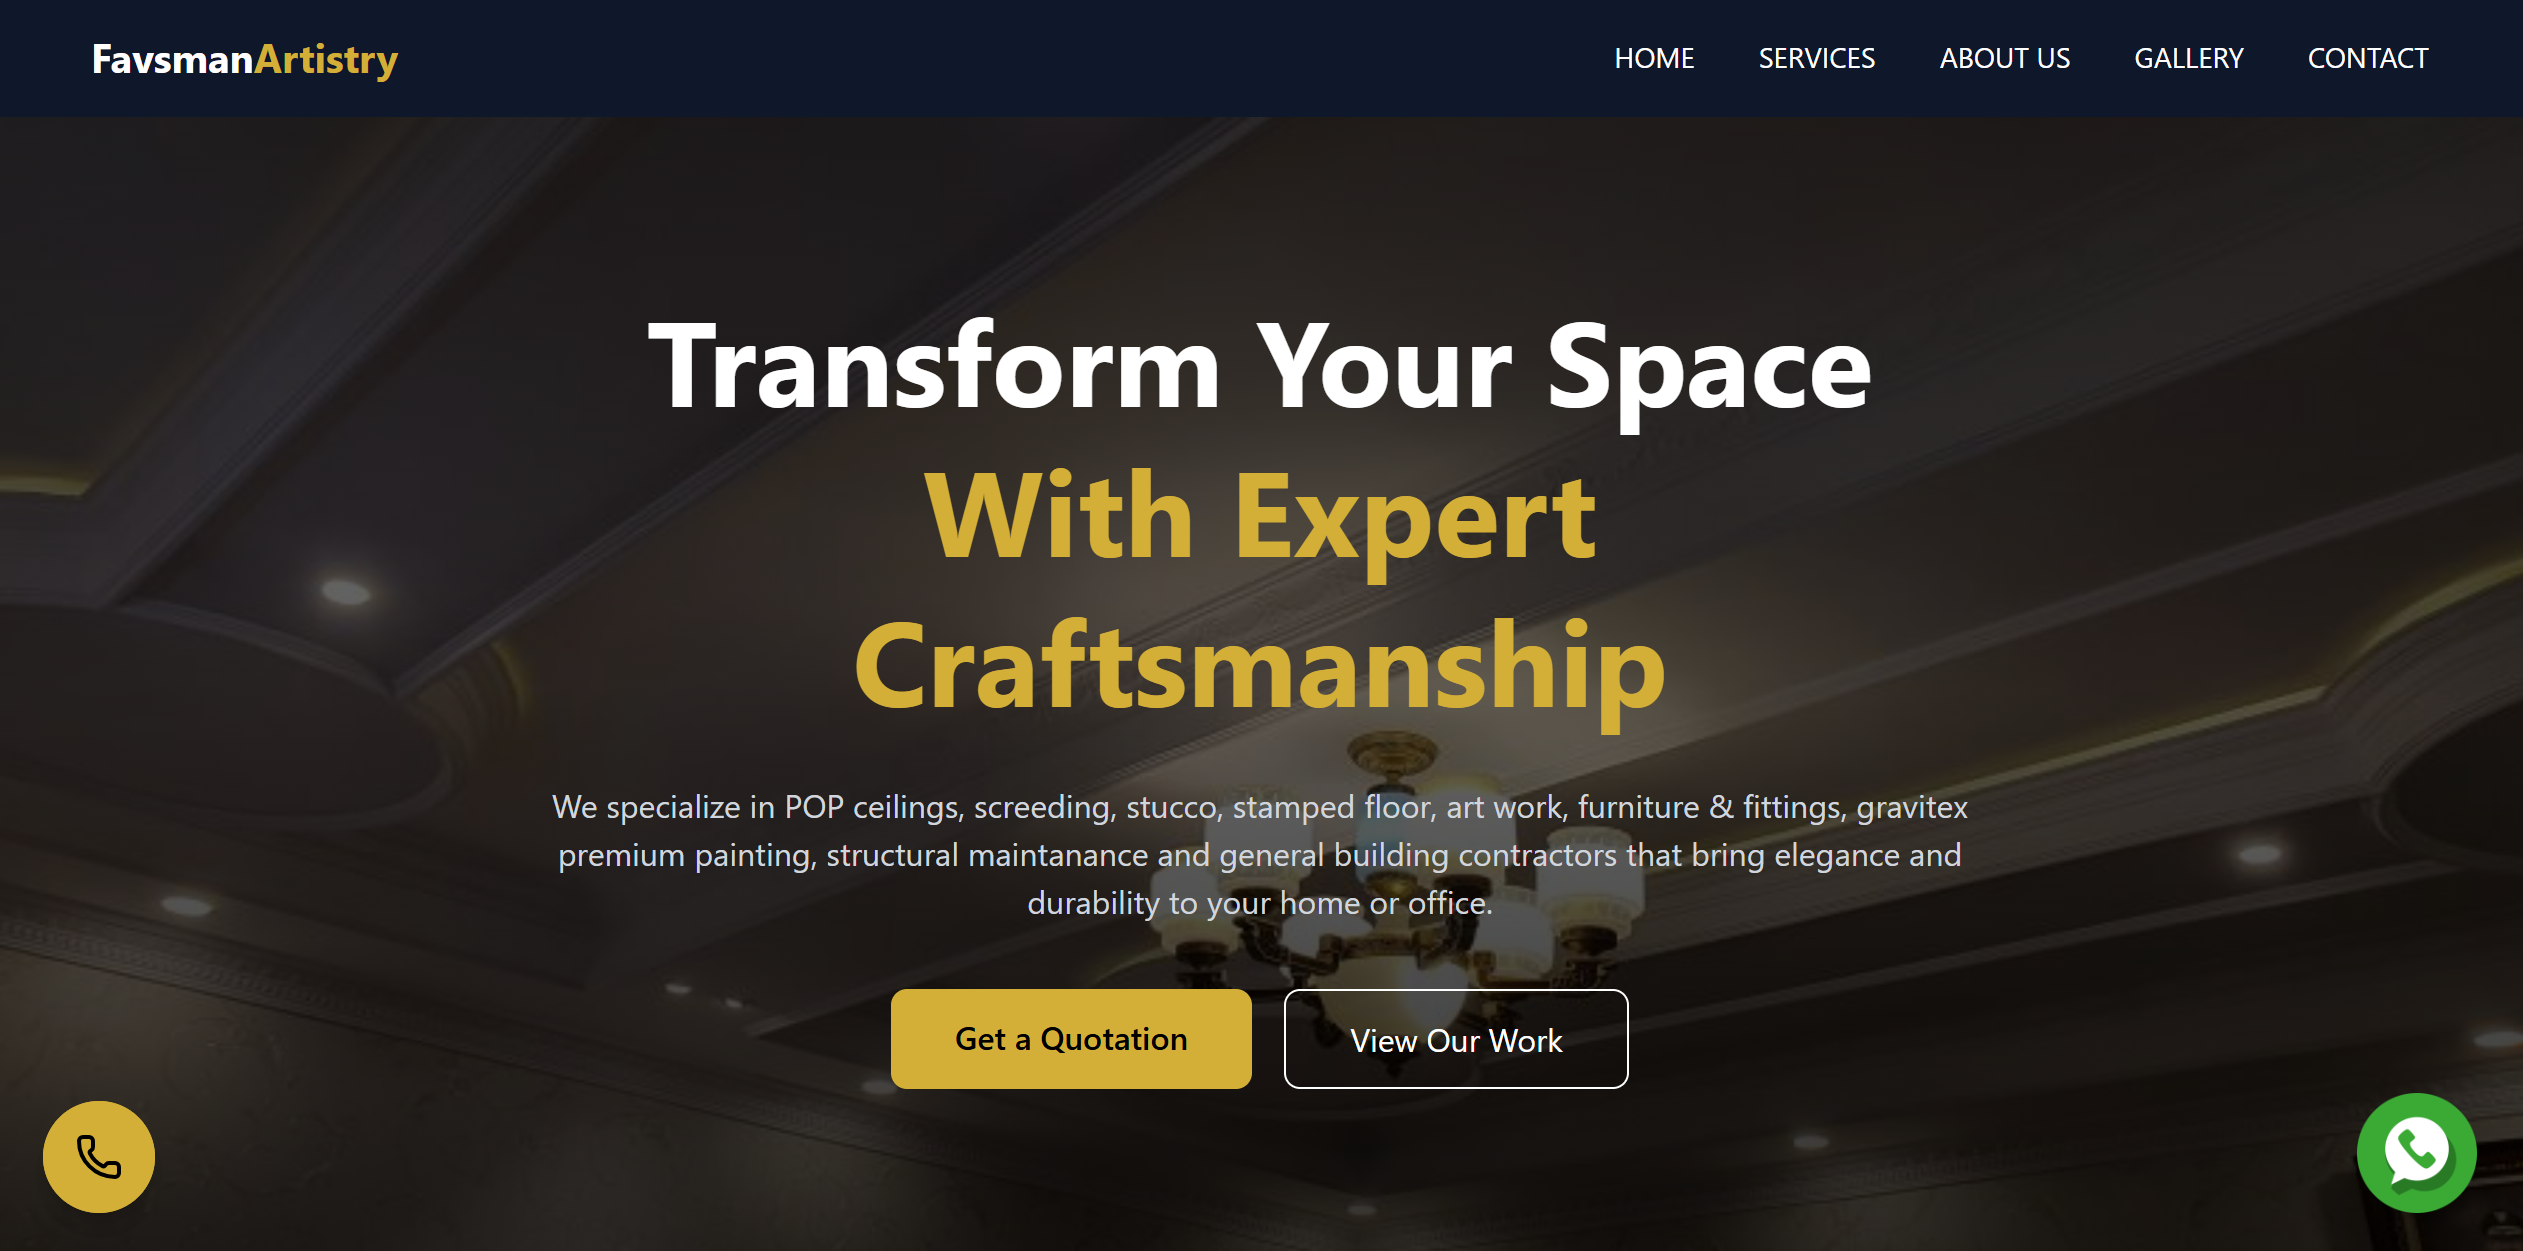
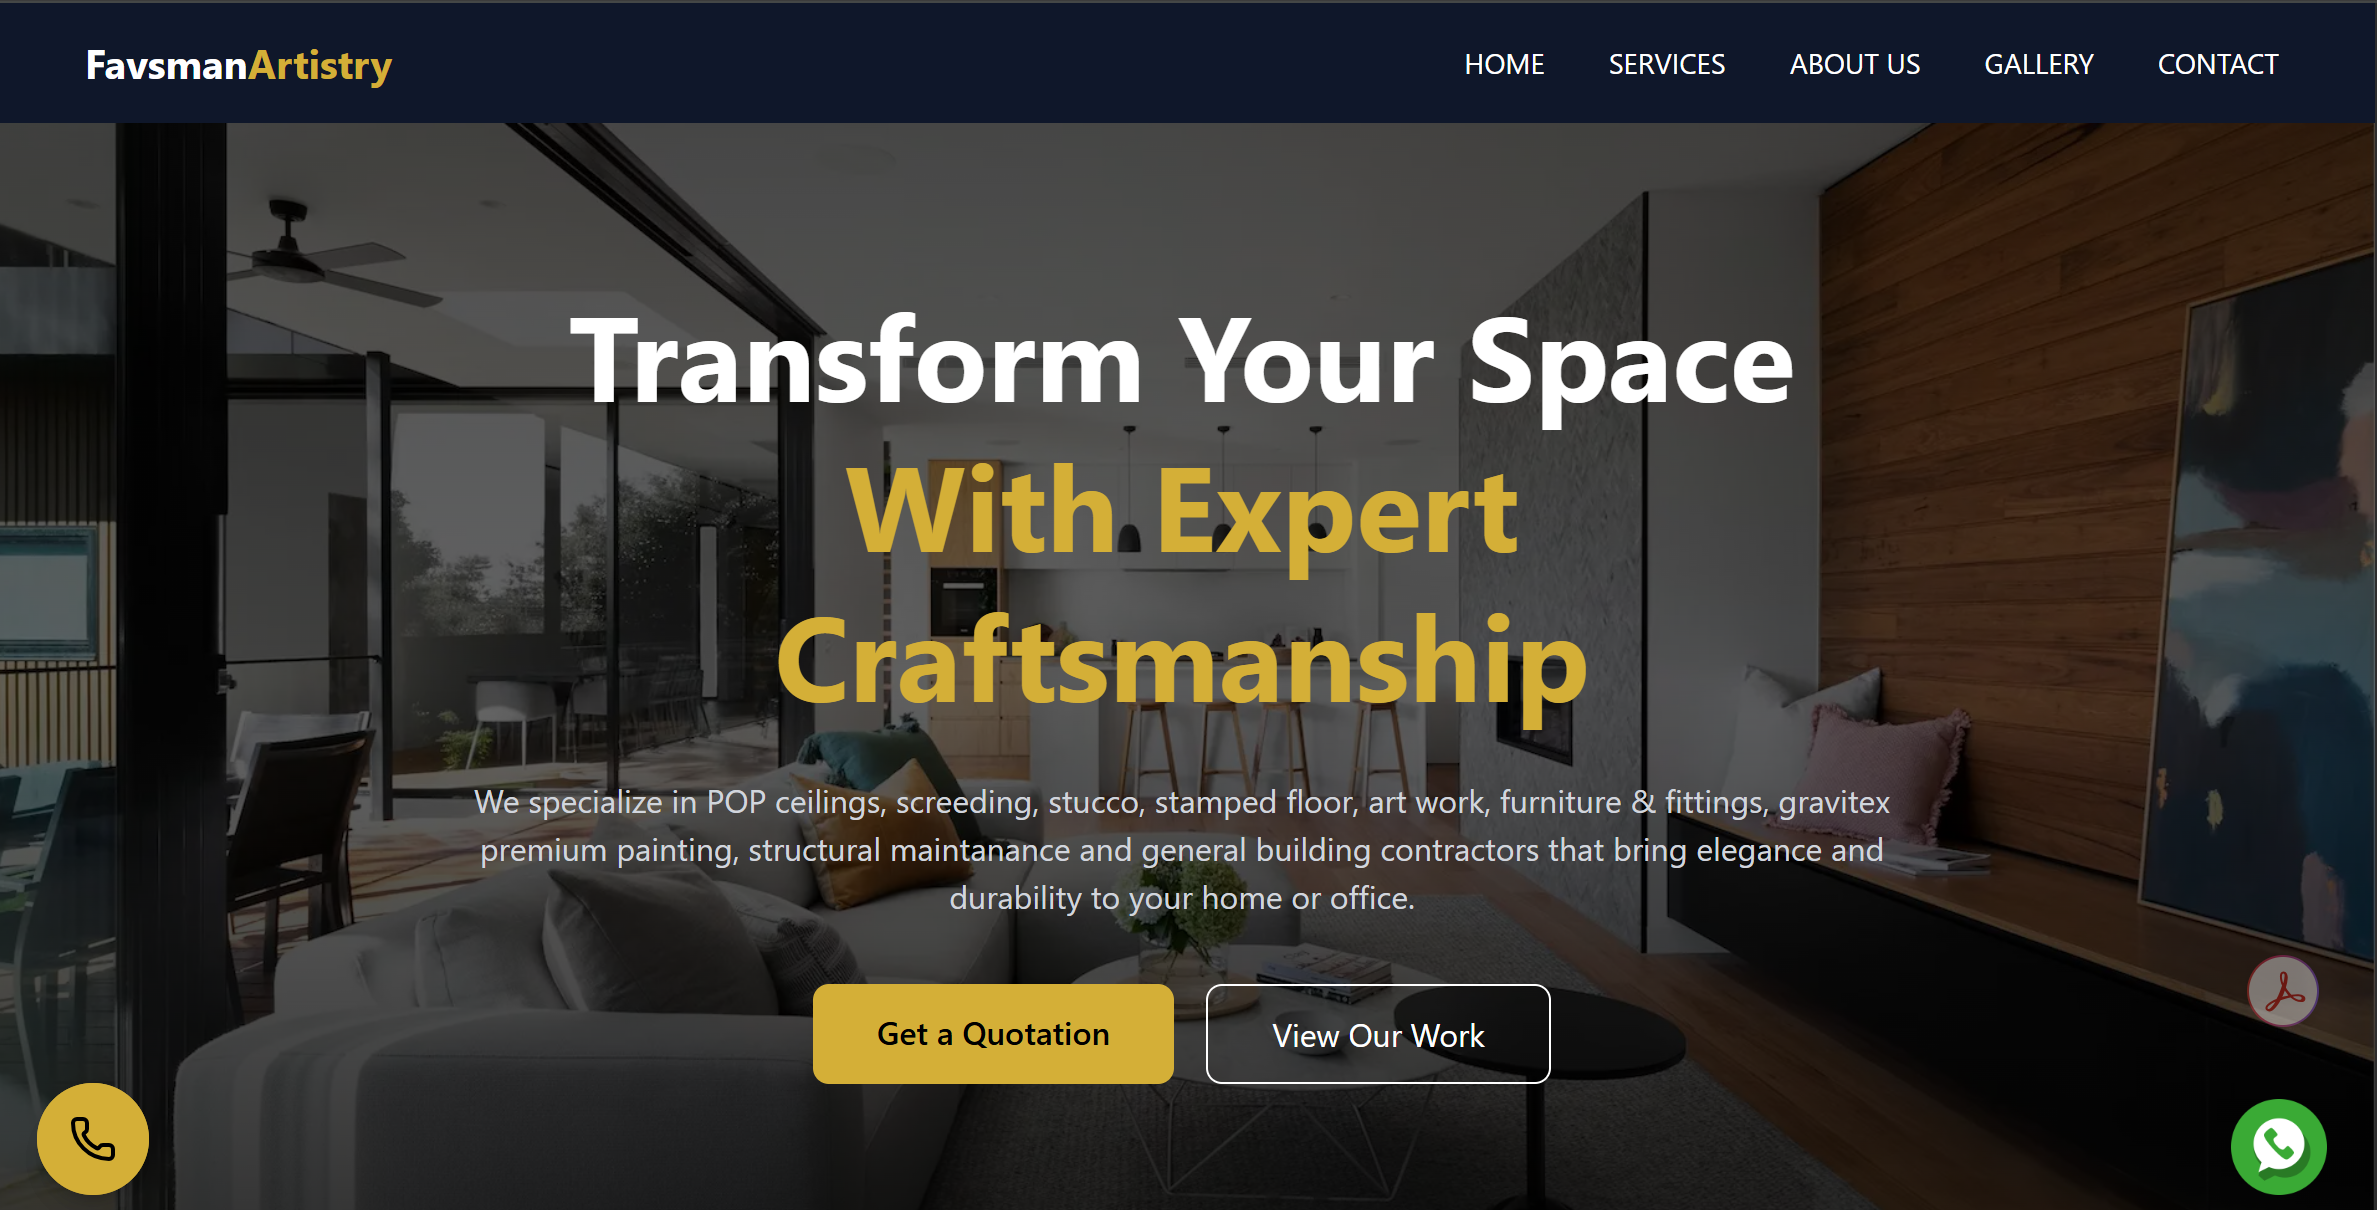
restructured project section and other minor changes

diff --git a/index.html b/index.html
@@ -17,10 +17,11 @@
     <link rel="stylesheet" href="css/portfolio2.css" />
     <link rel="stylesheet" href="css/Mediaquerry.css" />
   </head>
-  <!-- custom cursor -->
+  
+  <body>
+    <!-- custom cursor -->
   <div class="cursor-dot"></div>
   <div class="cursor-outline"></div>
-  <body>
     <!-- pre loading animation -->
     <div id="preloader">
       <div class="loader"></div>
@@ -135,7 +136,7 @@
                       <span class="percent">0%</span>
                     </div>
                     <div class="progress-bar">
-                      <div class="progress" data-width="80"></div>
+                      <div class="progress" data-width="70"></div>
                     </div>
                   </div>
 
@@ -145,38 +146,20 @@
                       <span class="percent">0%</span>
                     </div>
                     <div class="progress-bar">
-                      <div class="progress" data-width="90"></div>
+                      <div class="progress" data-width="95"></div>
                     </div>
                   </div>
 
-                  <div class="project">
-                    <div class="top">
-                      <span class="titlez">Favsman Artistry Website</span>
-                      <span class="percent">0%</span>
-                    </div>
-                    <div class="progress-bar">
-                      <div class="progress" data-width="85"></div>
-                    </div>
-                  </div>
                   <div class="project">
                     <div class="top">
                       <span class="titlez">Ramto Global</span>
                       <span class="percent">0%</span>
                     </div>
                     <div class="progress-bar">
-                      <div class="progress" data-width="65"></div>
+                      <div class="progress" data-width="85"></div>
                     </div>
                   </div>
 
-                  <!-- <div class="project">
-                    <div class="top">
-                      <span class="titlez">Deployment</span>
-                      <span class="percent">0%</span>
-                    </div>
-                    <div class="progress-bar">
-                      <div class="progress" data-width="70"></div>
-                    </div>
-                  </div> -->
                 </div>
               </div>
             </div>
@@ -425,64 +408,57 @@
         <div id="project_divs_holder">
 
         <!-- FIRST 2 -->
-         <div class="project_divs" data-aos="fade-up" data-aos-delay="200">
-        <a href="https://favsman-artistry-and-interiors-ltd.netlify.app/" target="_blank" class="explore">
-          <h5 class="project_header">Click Here To Explore Favsman artistry website</h5>
-        </a>
-        <img src="img/favsman.png" class="project_images" alt="" />
-        <p class="projectDescription">A responsive website for a construction finishing firm based in Lagos</p>
-         </div>
+         <div class="project_divs project-card" data-aos="fade-up" data-aos-delay="200">
+          <img src="img/favsman.png" class="project_images" alt="" />
 
-       <div class="project_divs" data-aos="fade-up" data-aos-delay="300">
-        <a href="https://cherriegiveresultz.com/" target="_blank" class="explore">
-          <h5 class="project_header">Click Here To Explore Cherie Give Resultz Website</h5>
-        </a>
-        <img src="img/cherie give2.png" class="project_images" alt="" />
-       </div>
+        <div class="overlay">
+          <a href="https://favsman-artistry-and-interiors-ltd.netlify.app/" target="_blank" class="explore">View Live</a>
+        </div>
+        <h5 class="project-title">Favsman artistry</h5>
+         </div>
+                  <!-- cherie -->
+         <div class="project_divs project-card" data-aos="fade-up" data-aos-delay="300">
+          <img src="img/cherie give2.png" class="project_images" alt="" />
+
+        <div class="overlay">
+           <a href="https://cherriegiveresultz.com/" target="_blank" class="explore">View Live</a>
+        </div>
+        <h5 class="project-title">Cherie Give Resultz</h5>
+         </div>
 
        <!-- HIDDEN -->
-        <div class="project_divs extra_project">
-          <a href="https://cravehub-eatery.netlify.app/" target="_blank" class="explore">
-            <h5 class="project_header">Click Here To Explore Crave Hub website</h5>
-          </a>
-          <img src="img/restaurant.png" class="project_images" />
-        </div>
 
-        <div class="project_divs extra_project">
-          <a href="https://storytimex.netlify.app/" target="_blank" class="explore">
-            <h5 class="project_header">Click Here To Explore Blog Site</h5>
-          </a>
-          <img src="img/blogSite.png" class="project_images" />
-        </div>
+        <!-- ramto -->
+         <div class="project_divs project-card" data-aos="fade-up" data-aos-delay="300">
+          <img src="img/ramto.png" class="project_images" alt="" />
 
-        <div class="project_divs extra_project">
-          <a href="https://mr-chuks-kitchen.netlify.app/" target="_blank" class="explore">
-          <h5 class="project_header">Click Here To Explore Mr Chuks Kitchen</h5>
-          </a>
-         <img src="img/chuks.png" class="project_images" />
+        <div class="overlay">
+           <a href="https://ramto-global.netlify.app/" target="_blank" class="explore">View Live</a>
+        </div>
+        <h5 class="project-title">Ramto Global</h5>
          </div>
 
-          <div class="project_divs extra_project">
-            <h5 class="project_header">Landing Page for Homie Furniture</h5>
-            <img src="img/furnit.png" class="project_images" />
-          </div>
 
-          <div class="project_divs extra_project">
-            <h5 class="project_header">Responsive website for Amachiks farms</h5>
-            <img src="img/amachiks2.png" class="project_images" />
-          </div>
+                       <!-- mr chuks -->
+         <div class="project_divs project-card" data-aos="fade-up" data-aos-delay="300">
+          <img src="img/chuks.png" class="project_images" alt="" />
 
-        <div class="project_divs extra_project">
-          <h5 class="project_header">Profile card done with React</h5>
-          <img src="img/img 3.png" class="project_images" />
+        <div class="overlay">
+           <a href="https://mr-chuks-kitchen.netlify.app/" target="_blank" class="explore">View Live</a>
         </div>
+        <h5 class="project-title">Mr. Chuks Kitchen</h5>
+         </div>
 
-          <div class="view-toggle">
-            <button id="toggleProjects" type="button">
-              <span class="btn-text">View More</span>
-              <span class="toggle-arrow">▾</span>
-            </button>
-          </div>
+
+ <!-- Story timex -->
+         <div class="project_divs project-card" data-aos="fade-up" data-aos-delay="300">
+          <img src="img/blogSite.png" class="project_images" alt="" />
+
+        <div class="overlay">
+           <a href="https://storytimex.netlify.app/" target="_blank" class="explore">View Live</a>
+        </div>
+        <h5 class="project-title">Story Timex</h5>
+         </div>
 
       </div> <!-- project container -->
 
@@ -610,14 +586,14 @@
              <div id="socials">
               <div>
                 <div class="footerimg_divss">
-                  <a href="" data-aos="fade-up" data-aos-delay="100">
+                  <a href="https://github.com/Jbosco339" data-aos="fade-up" data-aos-delay="100">
                     <img src="img/git8086.png" class="footer_socials" alt="" />
                   </a>
                 </div>
               </div>
 
               <div class="footerimg_divss">
-                <a href="#" data-aos="fade-up" data-aos-delay="100">
+                <a href="https://www.linkedin.com/in/benjamin-adakole-069717170?" data-aos="fade-up" data-aos-delay="100">
                   <img
                     src="img/linkedin (1).png"
                     class="footer_socials"
@@ -626,7 +602,7 @@
                 </a>
               </div>
               <div class="footerimg_divss">
-                <a href="" data-aos="fade-up" data-aos-delay="200">
+                <a href="#" data-aos="fade-up" data-aos-delay="200">
                   <img src="img/facebook.png" class="footer_socials" alt="" />
                 </a>
               </div>
@@ -660,7 +636,7 @@
           <p id="allRight_reserved">
             © 2026 Benjamin Adakole. All rights reserved
           </p>
-        </article>
+        <!-- </article> -->
       </footer>
     </main>
 

diff --git a/css/portfolio2.css b/css/portfolio2.css
@@ -211,6 +211,7 @@ body {
 }
 #art2_sec2_div {
   width: 100%;
+  margin-left: 10px;
   background-color: #191a2d;
 }
 .sec2_innerdivs {
@@ -249,9 +250,10 @@ body {
   background-color: #191a2d;
 }
 .project_divs {
-  width: 49%;
+  width: 48%;
   margin: 1px;
   background-color: #191a2d;
+  margin: 5px 5px;
 }
 
 #projects {
@@ -836,4 +838,107 @@ body {
 
 .projectDescription {
   font-size: 12px;
+}
+
+/* project overlay effect */
+.project-card {
+  position: relative;
+  width: 300px;
+  overflow: hidden;
+  border-radius: 12px;
+  cursor: pointer;
+}
+
+.project-card img {
+  width: 100%;
+  height: 200px;
+  object-fit: cover;
+  display: block;
+  transition: transform 0.4s ease;
+}
+
+/* Overlay */
+.overlay {
+  position: absolute;
+  top: 0;
+  left: 0;
+  width: 100%;
+  height: 100%;
+  background: rgba(0, 0, 0, 0.7);
+
+  display: flex;
+  justify-content: center;
+  align-items: center;
+
+  opacity: 0;
+  transition: opacity 0.3s ease;
+}
+
+/* Button */
+.overlay a {
+  text-decoration: none;
+  background: #fff;
+  color: #000;
+  padding: 10px 20px;
+  border-radius: 30px;
+  font-weight: bold;
+  transition: background 0.3s ease;
+}
+
+.overlay a:hover {
+  background: #ddd;
+}
+
+/* Hover Effects */
+/* Overlay base (always slightly visible) */
+.project-card{
+  width: 48%;
+}
+.project-card img {
+  width: 100%;
+  height: 92%; 
+  object-fit: cover; 
+  display: block;
+}
+.overlay {
+  position: absolute;
+  top: 0;
+  left: 0;
+  width: 100%;
+  height: 100%;
+  background: rgba(0, 0, 0, 0.4); /* lighter so content shows */
+
+  display: flex;
+  justify-content: center;
+  align-items: center;
+
+  opacity: 1; /* 👈 always visible (important for mobile) */
+  transition: all 0.3s ease;
+}
+
+/* Button default (faint look) */
+.overlay a {
+  text-decoration: none;
+  background: rgba(255, 255, 255, 0.6); /* 👈 faint */
+  color: #000;
+  padding: 10px 20px;
+  border-radius: 30px;
+  font-weight: 500;
+  opacity: 0.7; /* 👈 slightly faded */
+  transition: all 0.3s ease;
+}
+
+/* Hover effect (desktop) */
+.project-card:hover .overlay {
+  background: rgba(0, 0, 0, 0.7); /* darker on hover */
+}
+
+.project-card:hover .overlay a {
+  background: #fff;
+  opacity: 1;
+  transform: scale(1.05);
+}
+.project-title{
+  display: flex;
+  justify-content: center;
 }

diff --git a/js/portfolio2.js b/js/portfolio2.js
@@ -309,6 +309,14 @@ document.getElementById('button22').addEventListener('click', function() {
   window.open(whatsappUrl, '_blank').focus();
 });
 
+// project overlay effect linking
+document.querySelectorAll('.project-card').forEach(card => {
+  card.addEventListener('click', () => {
+    const link = card.querySelector('a').href;
+    window.open(link, '_blank');
+  });
+});
+
 
 
 
